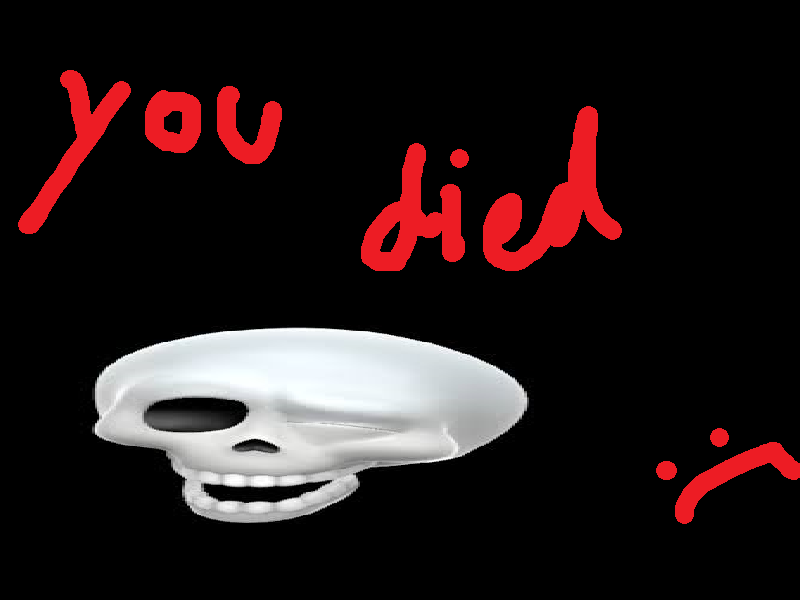
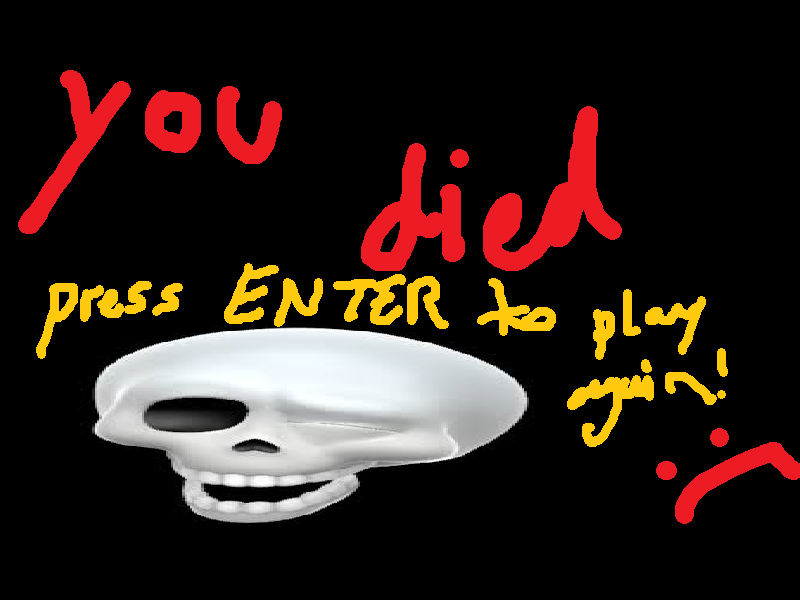
screens

diff --git a/src/StartScreen.java b/src/StartScreen.java
@@ -1,7 +1,7 @@
 import mayflower.*;
 
 public class StartScreen extends World {
-    private static MovableAnimatedActor playerCharacter;
+    private static Player playerCharacter;
 
     public StartScreen() {
         setBackground("src/img/BG/gamingwall.png");
@@ -16,7 +16,7 @@ public class StartScreen extends World {
         }
     }
 
-    public static MovableAnimatedActor getPlayer() {
+    public static Player getPlayer() {
         return playerCharacter;
     }
 }

diff --git a/src/DeathScreen.java b/src/DeathScreen.java
@@ -6,5 +6,8 @@ public class DeathScreen extends World {
     }
 
     public void act() {
+        if (Mayflower.isKeyDown(Keyboard.KEY_ENTER)) {
+            Mayflower.setWorld(new StartScreen());
+        }
     }
 }

diff --git a/src/WinScreen.java b/src/WinScreen.java
@@ -6,5 +6,8 @@ public class WinScreen extends World {
     }
 
     public void act() {
+        if (Mayflower.isKeyDown(Keyboard.KEY_ENTER)) {
+            Mayflower.setWorld(new StartScreen());
+        }
     }
 }
